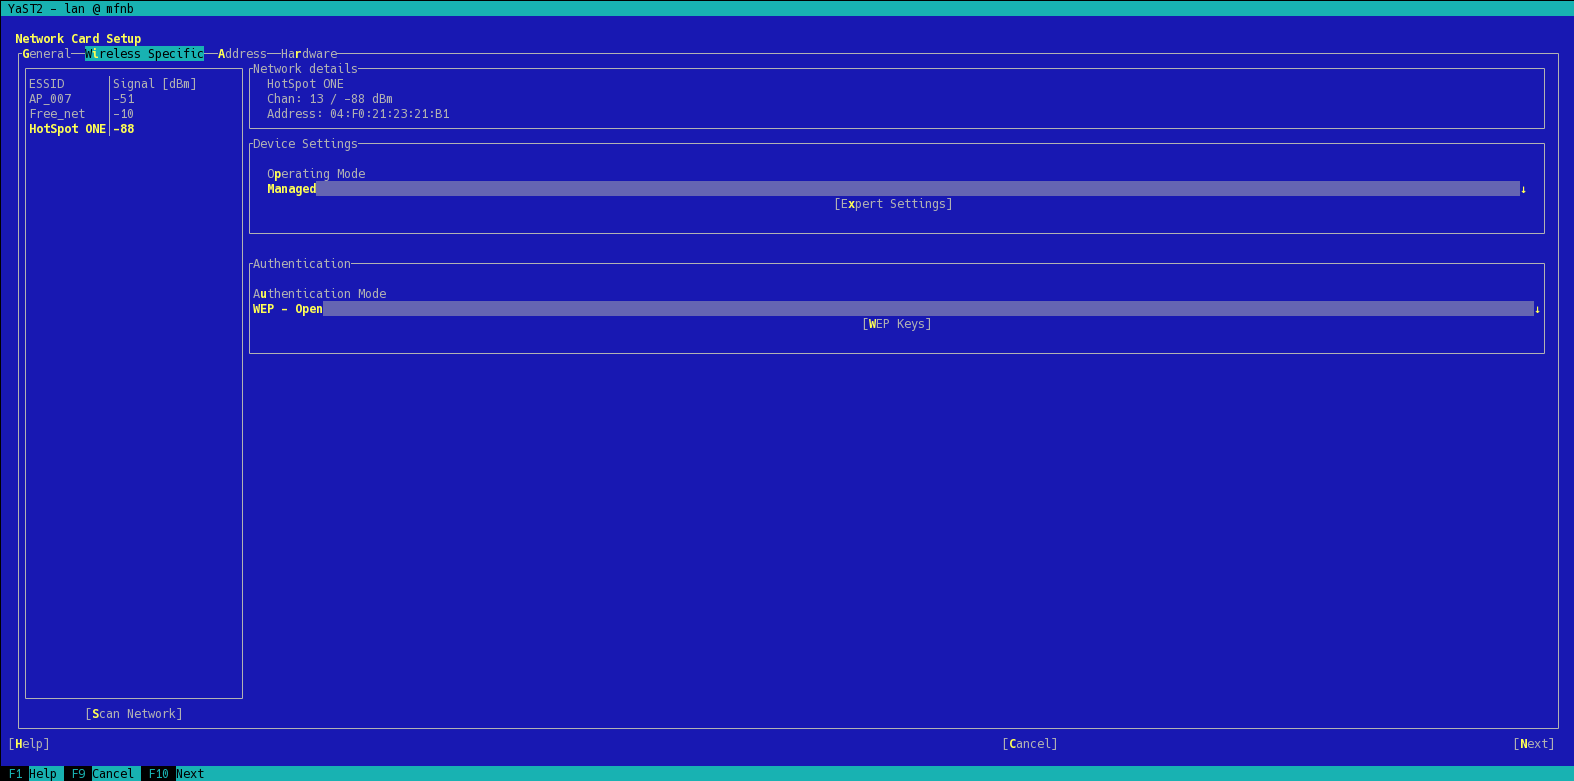
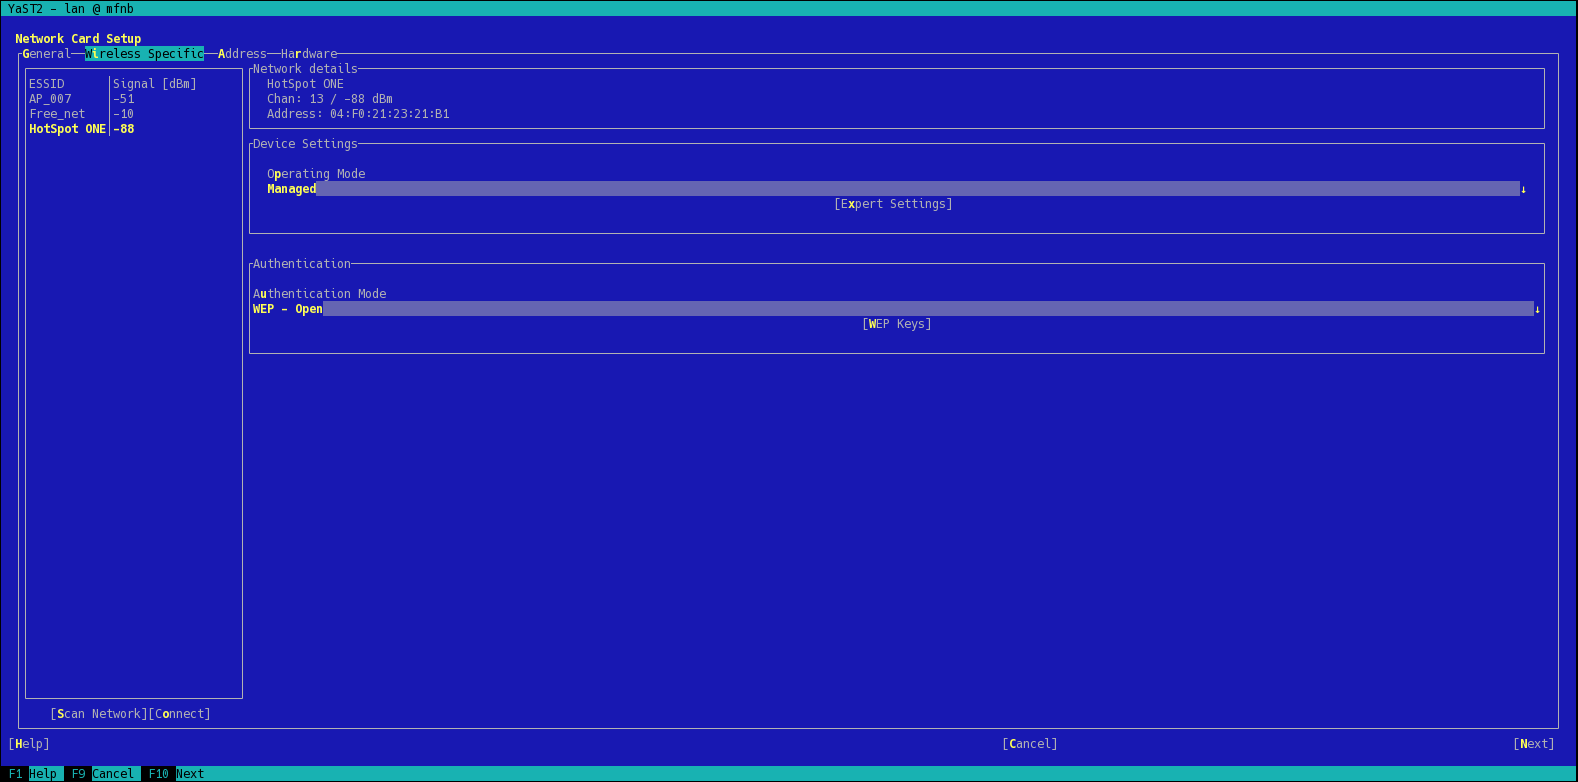
Details about new approach to scanning and connecting

diff --git a/public/new-wifi-tab.md b/public/new-wifi-tab.md
@@ -16,8 +16,21 @@ What we started with is
 
 * Here was motivation to use opportunity and improve the view a bit more
 * Changes would be related to adding more details into network overview, like e.g. signal strength, to putting more details into Scan results - not only populate a list of available ESSIDs but also displaying some more details to make the choice easier for the user
+* Add a button (e.g.) for activating connection explicitly. Currently we use the network which is active at time of clicking "Next" button. This can lead to unintended change of connection due to user's confusion.
 
 ![WiFi tab with network details](../pics/network-wifi-proposal_details.png)
+
+* When user invokes Network Scan manually we can either populate the left column with results directly and left user to see details after clicking on particular essid name. This would require implementing a feature "Activate connection to selected network". Another possibility is to display a table with available networks overview and let user pick one as on following picture
+
+	- Pros - filling left column directly
+		- less dialogues to click through
+	- Cons
+		- when searching for a network which connect to and searching for more details user has to click through
+	- Cons - additional overview Popup
+		- additional dialogue, which might contain huge list with lot of columns
+		- the solution can fall to previous solution when user doesn't want to change existing connection (or create new one) immediately
+
+![Network scan result](../pics/network-wifi-scan_result.png)
 
 * Another changes would be related to a workflow how yast parses wifi networks information
 
